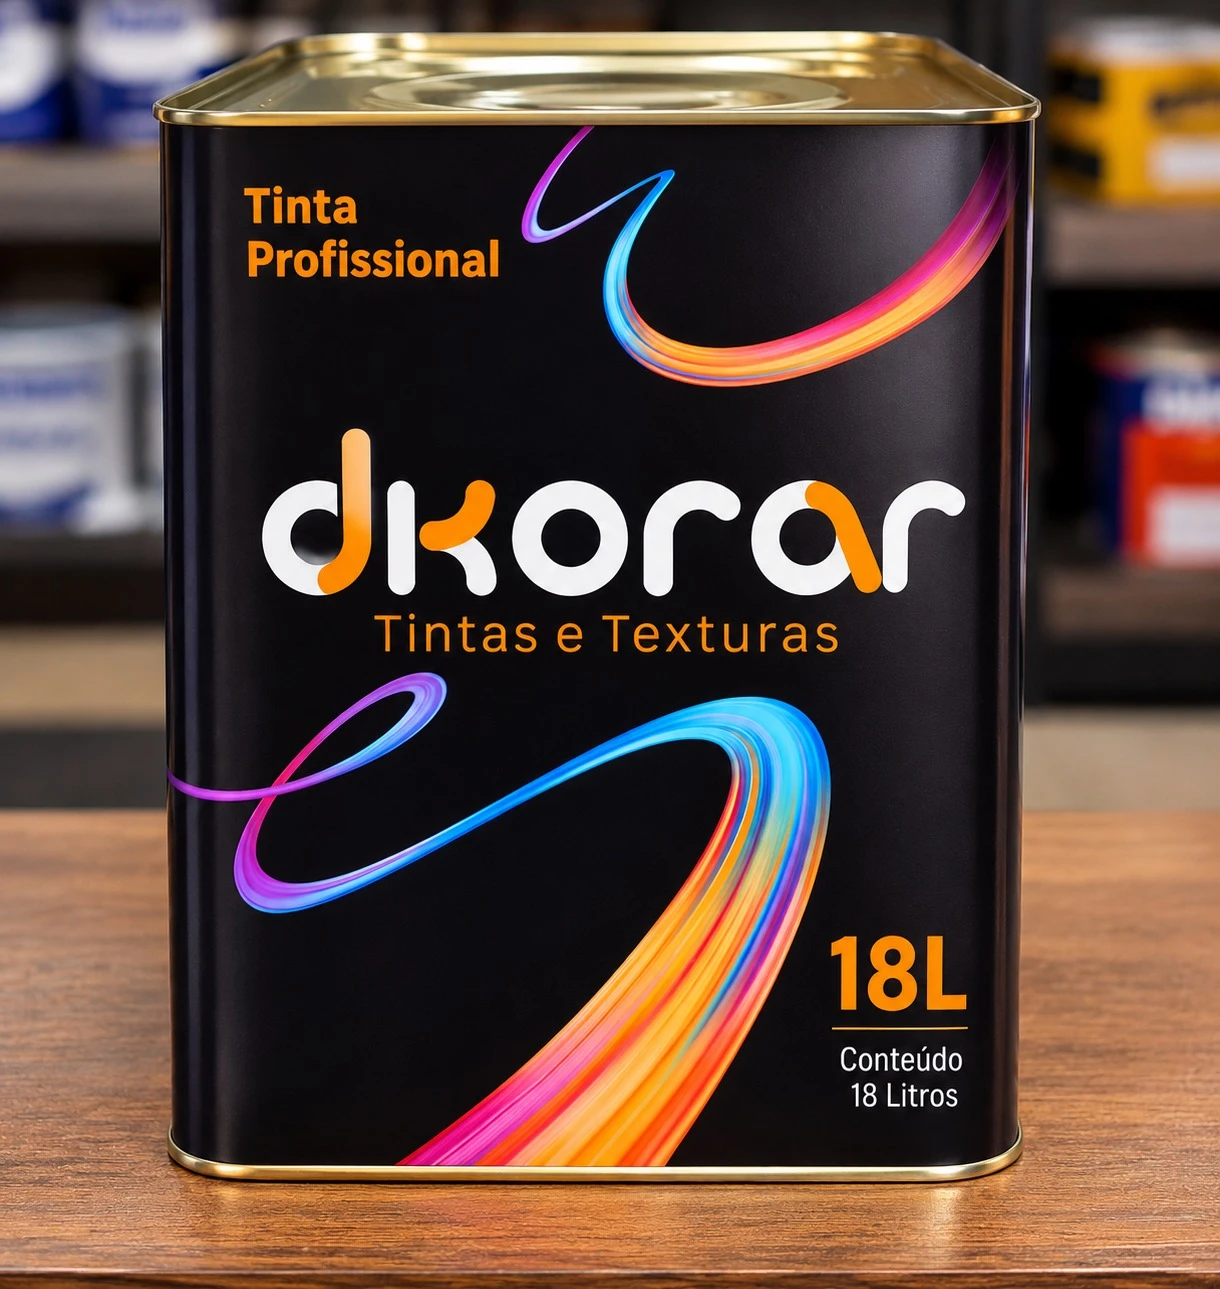
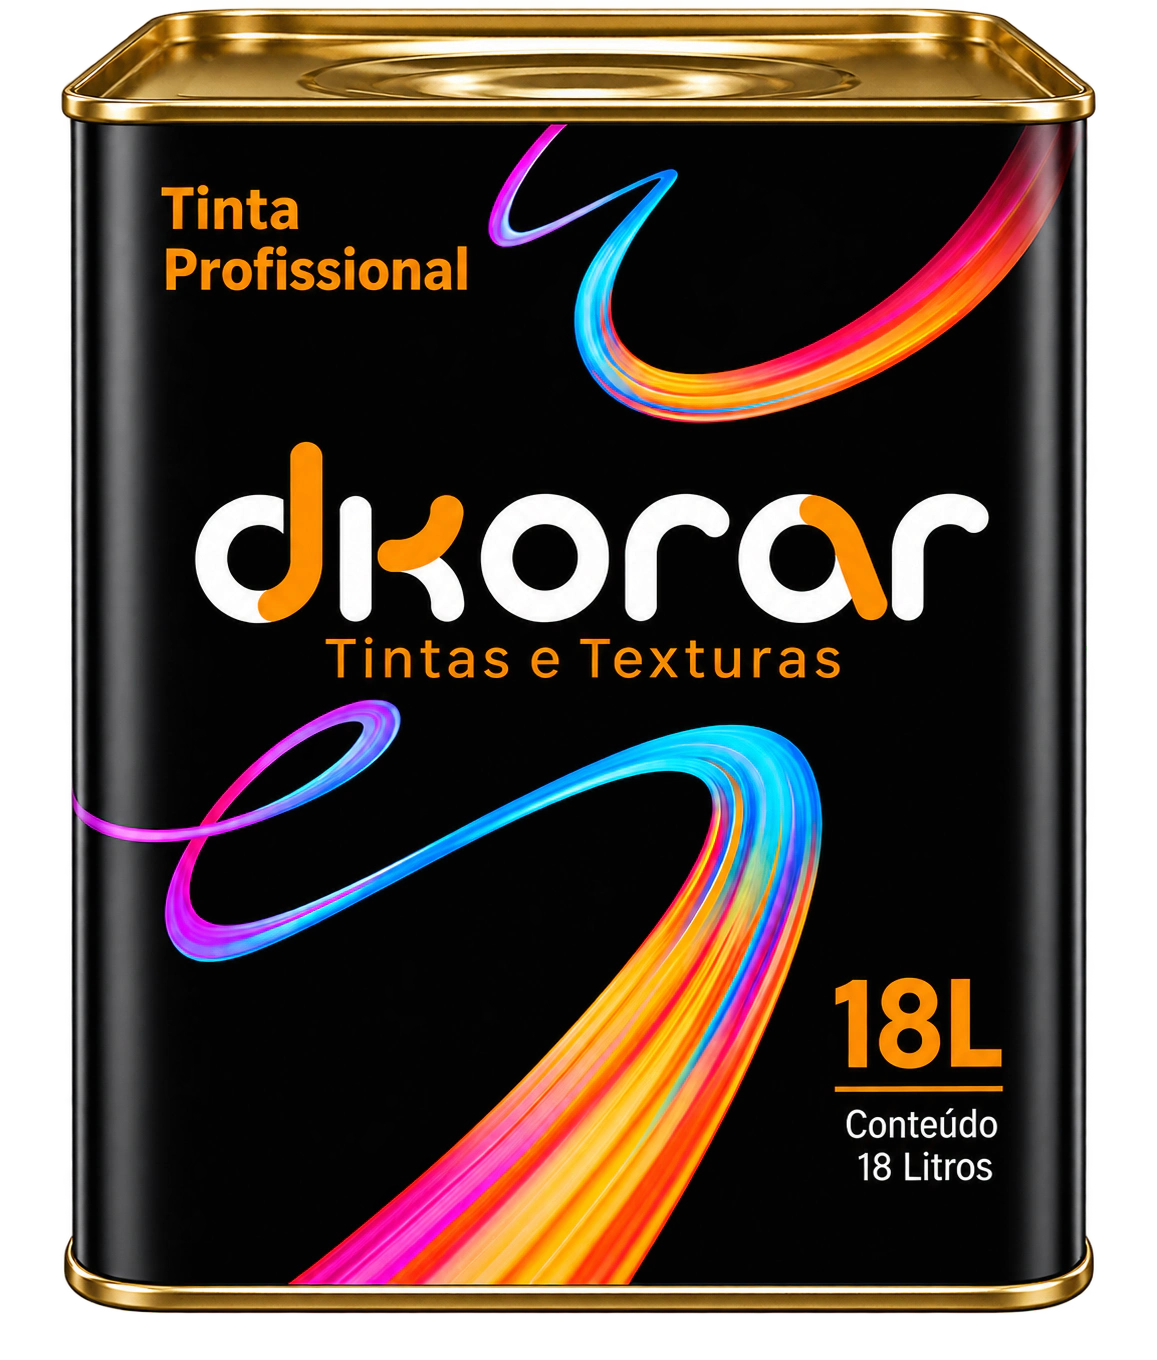
feat: replace Dkorar can imagery

diff --git a/index.html b/index.html
@@ -45,7 +45,7 @@
       </a>
       <a class="ad-slide ad-dkorar" href="#dkorar">
         <div class="ad-copy"><span class="ad-eyebrow">Dkorar · marca da casa</span><p class="ad-kicker">A cor certa, preparada na loja</p><p class="ad-sub">Linha própria da Dekorar: qualidade pelo melhor preço, com leitor de cor.</p><span class="ad-cta">Conhecer a Dkorar →</span></div>
-        <div class="ad-media"><img class="ad-logo" src="assets/img/brand-dkorar.svg" alt="Dkorar" loading="lazy" decoding="async"><img class="ad-pack" src="assets/img/dkorar-lata-cutout.webp" alt="" aria-hidden="true" loading="lazy" decoding="async"></div>
+        <div class="ad-media"><img class="ad-logo" src="assets/img/brand-dkorar.svg" alt="Dkorar" loading="lazy" decoding="async"><img class="ad-pack" src="assets/img/dkorar-lata-cutout.webp" width="1157" height="1360" alt="" aria-hidden="true" loading="lazy" decoding="async"></div>
       </a>
       <a class="ad-slide ad-anjo" href="produtos.html?busca=Anjo">
         <div class="ad-copy"><span class="ad-eyebrow">Anjo</span><p class="ad-kicker">Fosco total que cobre de verdade</p><p class="ad-sub">Alta cobertura e rendimento de obra para paredes e gesso.</p><span class="ad-cta">Ver linha Anjo →</span></div>
@@ -154,7 +154,7 @@
     <!-- Dkorar -->
     <section class="dkorar" id="dkorar" aria-labelledby="dkorar-title">
       <figure class="dkorar-plate">
-        <img class="plate-img dkorar-product" src="assets/img/dkorar-lata-18l.webp" width="1220" height="1310" alt="Lata quadrada de 18 litros da Dkorar Tintas e Texturas, preta com faixas coloridas" loading="lazy" decoding="async">
+        <img class="plate-img dkorar-product" src="assets/img/dkorar-lata-18l.webp" width="1157" height="1360" alt="Lata profissional de 18 litros da Dkorar Tintas e Texturas, preta com faixas coloridas" loading="lazy" decoding="async">
       </figure>
       <div class="dkorar-page">
         <div class="dk-heading" data-reveal>
@@ -280,7 +280,7 @@
             <p class="promo-sub">Grafiato, pedras naturais, lamato e efeito liso — com acabamento superior e preço de fábrica.</p>
             <a class="btn btn-orange" href="produtos.html?cat=Texturas%20e%20efeitos">Ver texturas</a>
           </div>
-          <img class="promo-can" src="assets/img/dkorar-lata-cutout.webp" width="587" height="620" alt="Lata quadrada da Dkorar Tintas e Texturas" loading="lazy" decoding="async">
+          <img class="promo-can" src="assets/img/dkorar-lata-cutout.webp" width="1157" height="1360" alt="Lata profissional de 18 litros da Dkorar Tintas e Texturas" loading="lazy" decoding="async">
         </article>
         <article class="promo promo-light">
           <div class="promo-txt">
